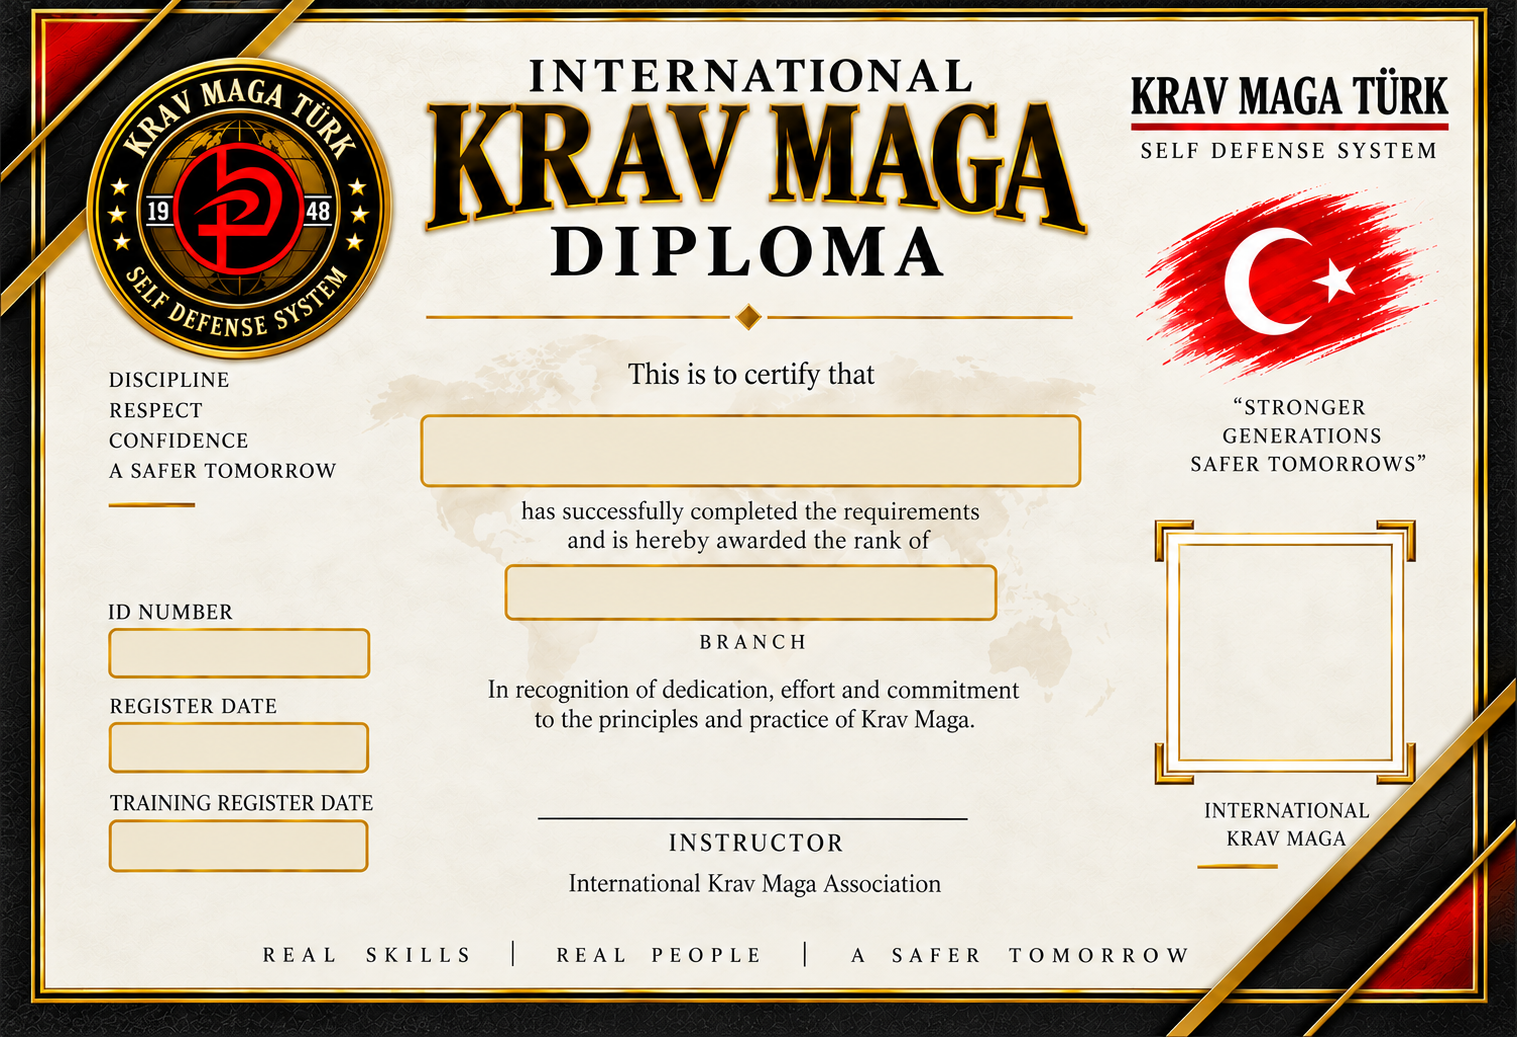
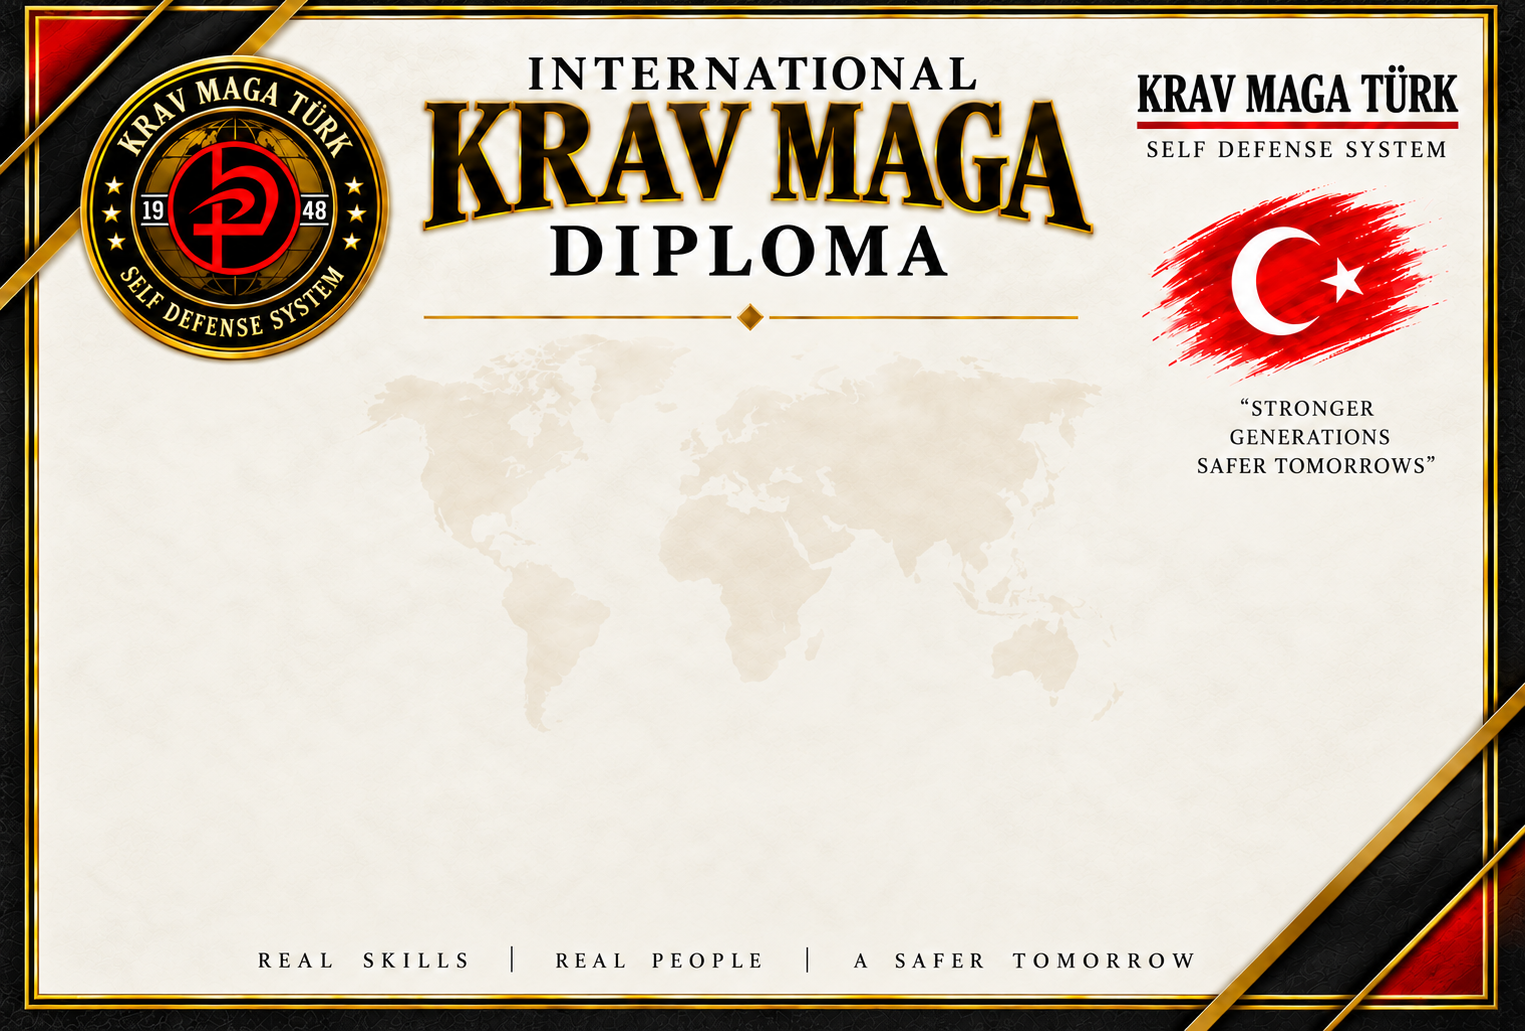
Diploma şablonunu ve alan kalibrasyonunu yenile

diff --git a/register.html b/register.html
@@ -1440,7 +1440,7 @@ function loadTemplate(kind){
   var files=TEMPLATE_FILES[kind]||[];
   function attempt(i){
     if(i>=files.length) throw new Error('PNG sablonu bulunamadi: '+files.join(' / '));
-    var u=files[i]+(files[i].indexOf('?')>=0?'&':'?')+'v=20260918-1010';
+    var u=files[i]+(files[i].indexOf('?')>=0?'&':'?')+'v=20260930-diploma2';
     return loadImageAsDataURL(u).catch(function(){ return attempt(i+1); });
   }
   return attempt(0).then(function(data){templateCache[kind]=data; return data;});
@@ -1474,6 +1474,20 @@ function addPdfUnicodeText(doc,text,x,y,opts){
   if(opts.align==='left') xx=x;
   if(opts.align==='right') xx=x-mmW;
   doc.addImage(c.toDataURL('image/png'),'PNG',xx,y-mmH*0.72,mmW,mmH);
+}
+
+function addFittedPdfUnicodeText(doc,text,x,y,maxWidth,startSize,minSize,opts){
+  opts=opts||{};
+  var size=startSize,scale=4,family=opts.family||'Arial',weight=opts.bold?'700':'400';
+  var c=document.createElement('canvas'),ctx=c.getContext('2d');
+  while(size>minSize){
+    ctx.font=weight+' '+(size*scale)+'px '+family;
+    var mmWidth=(ctx.measureText(String(text)).width/scale+24)*0.264583;
+    if(mmWidth<=maxWidth) break;
+    size-=0.5;
+  }
+  var finalOpts=Object.assign({},opts,{fontSize:size});
+  addPdfUnicodeText(doc,text,x,y,finalOpts);
 }
 
 
@@ -1564,22 +1578,48 @@ function drawCertificateFrame(doc,W,H,logo){
 
 function downloadPDF(record, lang){
   record=record||lastSearchedRecord; lang=lang||'tr'; if(!record)return;
-  var d=record;
+  var d=record,isTR=lang==='tr';
   var templatePromise=loadTemplate('diplomaGeneral').catch(function(){return null;});
   var qrPromise=makeQrDataUrl(buildQrUrl(d.registerNo)).catch(function(){return null;});
-  Promise.all([qrPromise,templatePromise]).then(function(parts){
-    var qr=parts[0],template=parts[1],jsPDF=window.jspdf.jsPDF;
+  var portraitPromise=prepareRegistryPortrait(d.webPortrait || d.photo).catch(function(){return false;});
+  Promise.all([qrPromise,templatePromise,portraitPromise]).then(function(parts){
+    var qr=parts[0],template=parts[1],portrait=parts[2],jsPDF=window.jspdf.jsPDF;
     var W=297,H=210,doc=new jsPDF('l','mm','a4');
     if(!template) throw new Error('diploma-genel.png bulunamadı');
     doc.addImage(template,'PNG',0,0,W,H);
-    // diploma-genel.png logolu ana şablondur; ikinci bir logo eklenmez.
-    addPdfUnicodeText(doc,String(d.studentName||'').toLocaleUpperCase('tr-TR'),148.5,95.6,{fontSize:26,bold:true,family:'Arial'});
-    addPdfUnicodeText(doc,String(d.level||'').toLocaleUpperCase('tr-TR'),148.5,124.0,{fontSize:19,bold:true,family:'Arial'});
-    addPdfUnicodeText(doc,String(d.registerNo||''),38.5,132.0,{fontSize:13.5,bold:true,family:'Arial'});
-    addPdfUnicodeText(doc,String(d.joinDate||''),38.5,153.2,{fontSize:13,bold:true,family:'Arial'});
-    addPdfUnicodeText(doc,String(d.examDate||''),38.5,174.2,{fontSize:13,bold:true,family:'Arial'});
-    if(d.instructorName) addPdfUnicodeText(doc,String(d.instructorName).toLocaleUpperCase('tr-TR'),148.5,164.2,{fontSize:13,bold:true,family:'Arial'});
-    if(qr) doc.addImage(qr,'PNG',230.5,112.0,39.0,39.0);
+
+    // Fotoğraf alanı: 3:4 oranı, üstteki büyük logodan ve alt slogandan uzakta.
+    doc.setFillColor(245,241,232); doc.setDrawColor(184,121,0); doc.setLineWidth(0.6);
+    doc.roundedRect(20.0,91.0,38.0,50.7,1.8,1.8,'FD');
+    if(portrait){ try{ doc.addImage(portrait,'JPEG',20.0,91.0,38.0,50.7); }catch(e){} }
+
+    // Orta diploma metinleri: uzun ad ve seviyelerde otomatik küçülür.
+    addPdfUnicodeText(doc,isTR?'Bu diploma':'This diploma certifies that',148.5,82.0,{fontSize:13,family:'Arial'});
+    addFittedPdfUnicodeText(doc,String(d.studentName||'').toLocaleUpperCase('tr-TR'),148.5,96.5,132.0,27,18,{bold:true,family:'Arial'});
+    doc.setDrawColor(184,121,0); doc.setLineWidth(0.45); doc.line(84.0,102.0,213.0,102.0);
+    addPdfUnicodeText(doc,isTR?'Krav Maga eğitim gerekliliklerini başarıyla tamamlayarak':'has successfully completed the Krav Maga requirements',148.5,110.0,{fontSize:11,family:'Arial'});
+    addFittedPdfUnicodeText(doc,String(d.level||'').toLocaleUpperCase('tr-TR'),148.5,123.0,112.0,21,15,{bold:true,family:'Arial'});
+    addPdfUnicodeText(doc,isTR?'BRANŞ / SEVİYE':'BRANCH / LEVEL',148.5,129.5,{fontSize:8,bold:true,family:'Arial'});
+
+    // Sicil bilgisi fotoğrafla aynı eksende gruplanır.
+    addPdfUnicodeText(doc,isTR?'SİCİL NUMARASI':'REGISTER NUMBER',39.0,149.0,{fontSize:8,bold:true,family:'Arial'});
+    addFittedPdfUnicodeText(doc,String(d.registerNo||''),39.0,157.0,38.0,13,9,{bold:true,family:'Arial'});
+
+    // Eğitmen imza alanı.
+    doc.setDrawColor(25,25,25); doc.setLineWidth(0.3); doc.line(115.0,167.0,182.0,167.0);
+    if(d.instructorName){
+      addFittedPdfUnicodeText(doc,String(d.instructorName).toLocaleUpperCase('tr-TR')+(isTR?' - EĞİTMEN':' - INSTRUCTOR'),148.5,174.0,72.0,10,7.5,{bold:true,family:'Arial'});
+    }else{
+      addPdfUnicodeText(doc,isTR?'EĞİTMEN':'INSTRUCTOR',148.5,174.0,{fontSize:9,bold:true,family:'Arial'});
+    }
+
+    // QR alanı sağ altta; bayrak, alıntı ve köşe süslemesiyle çakışmaz.
+    if(qr){
+      doc.setFillColor(255,255,255); doc.setDrawColor(184,121,0); doc.setLineWidth(0.5);
+      doc.roundedRect(245.0,123.0,35.0,35.0,1.5,1.5,'FD');
+      doc.addImage(qr,'PNG',247.0,125.0,31.0,31.0);
+      addPdfUnicodeText(doc,isTR?'DİPLOMA DOĞRULAMA':'VERIFY DIPLOMA',262.5,163.0,{fontSize:7,bold:true,family:'Arial'});
+    }
     doc.save('diploma-'+d.registerNo+'.pdf');
     logSecurityEvent('download',{studentName:d.studentName,registerNo:d.registerNo,lang:lang,type:'general_template'});
   }).catch(function(err){ alert('PDF oluşturulamadı: '+err.message); });
